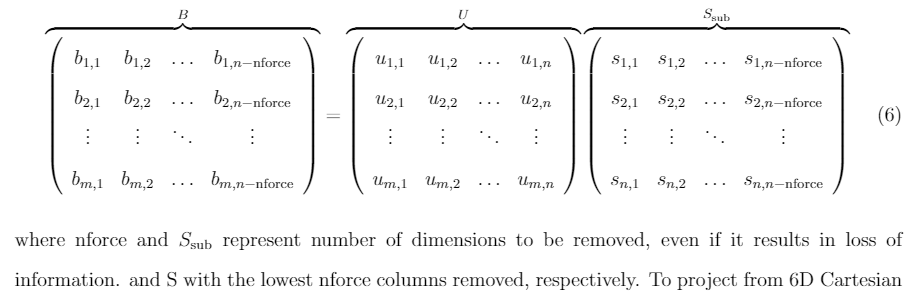
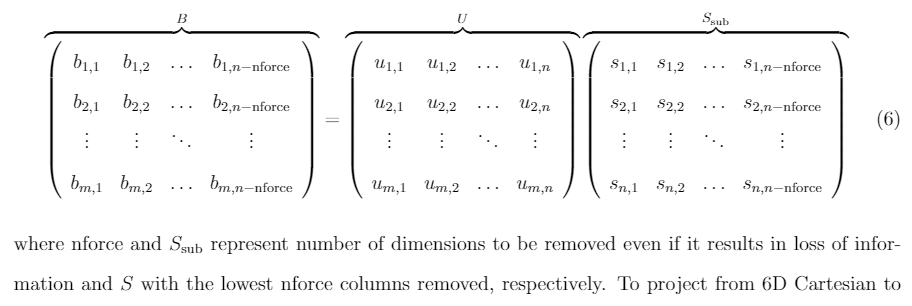
fixed typo in image

diff --git a/README.md b/README.md
@@ -23,24 +23,6 @@ Using `TeXport[]`
 * Export equations followed by variable definitions (e.g. "where a, b, and c represent apples, bananas, and cantouloupes, respectively.")
 * Perform and typeset proofs (equations, variable definitions, sentences, and symbolic solutions)
 
-Simple example:  
-```
-keys = {a, b, c};
-values = {"apples", "bananas", "cantaloupe"};
-equation = a + b == c;
-keyvalues = {keys, values};
-printQ = True;
-fname = "texport-example";
-TeXport[fname, equation, keyvalues, printQ]
-```
-> \begin{equation} \label{eq:texport-example}  
-> a+b=c  
-> \end{equation}  
-> where $a$, $b$, and $c$ represent apples, bananas, and cantaloupe, respectively.  
-
-<img src=main\code\mathematica\readme-images\texport-easy.png width=500>
-
-
 ## Plotting
 
 ### python
